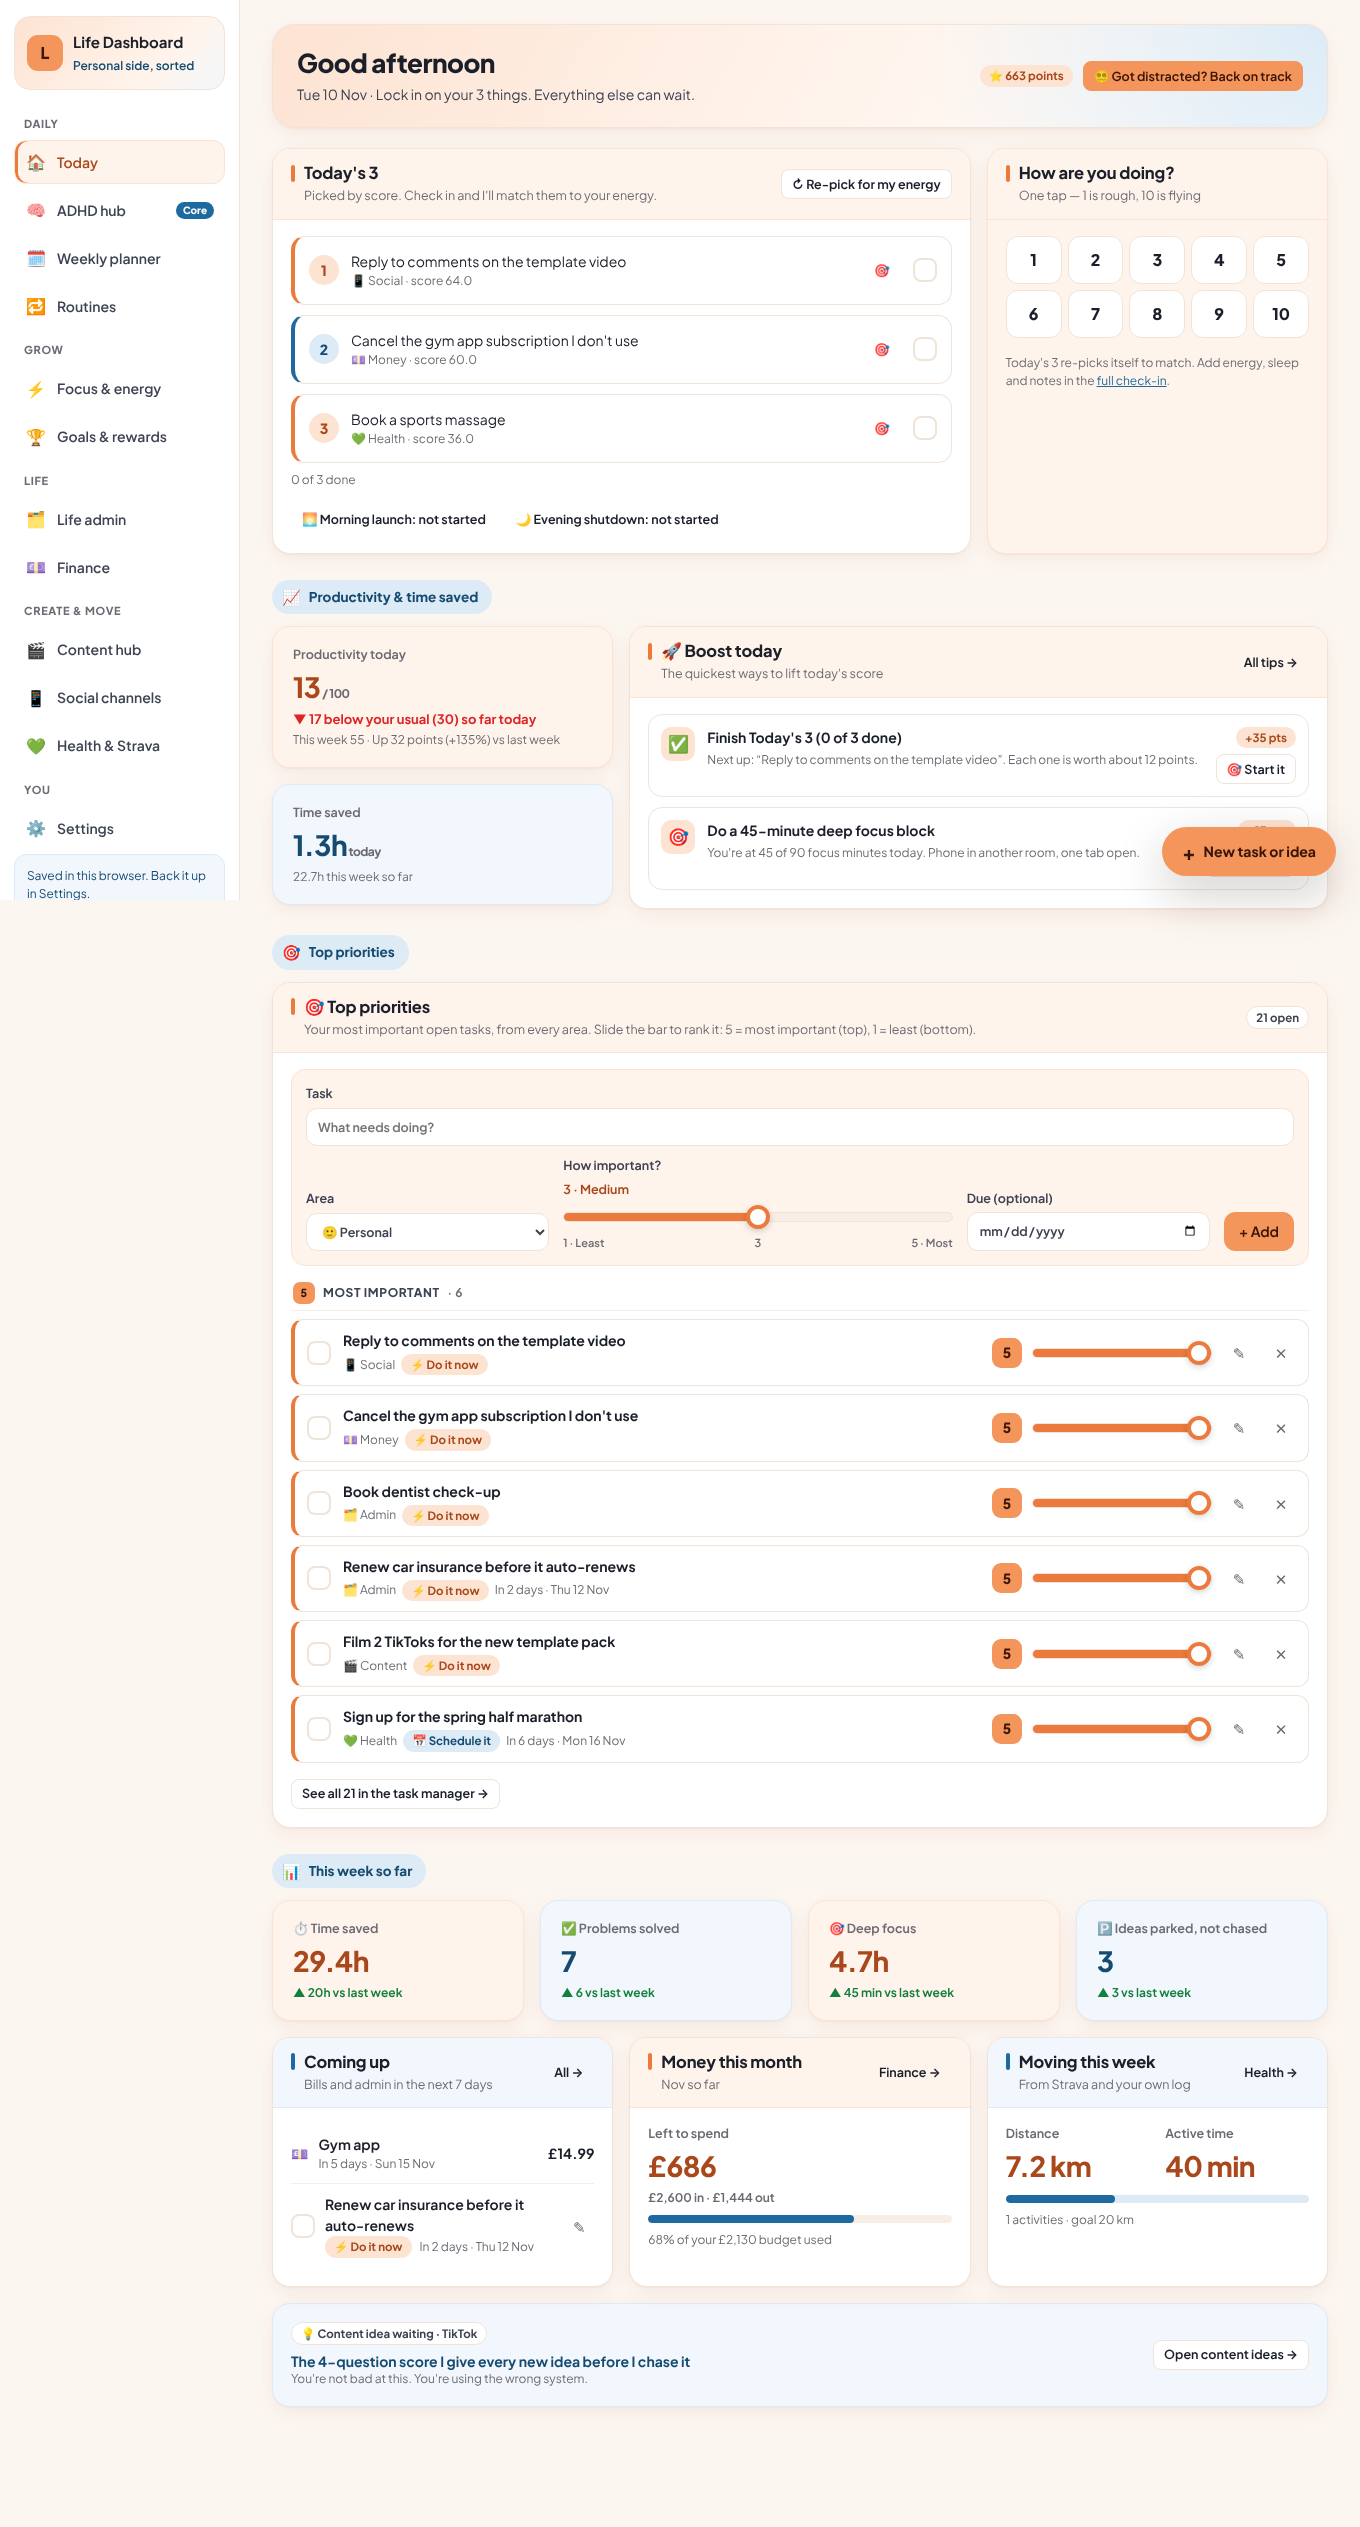
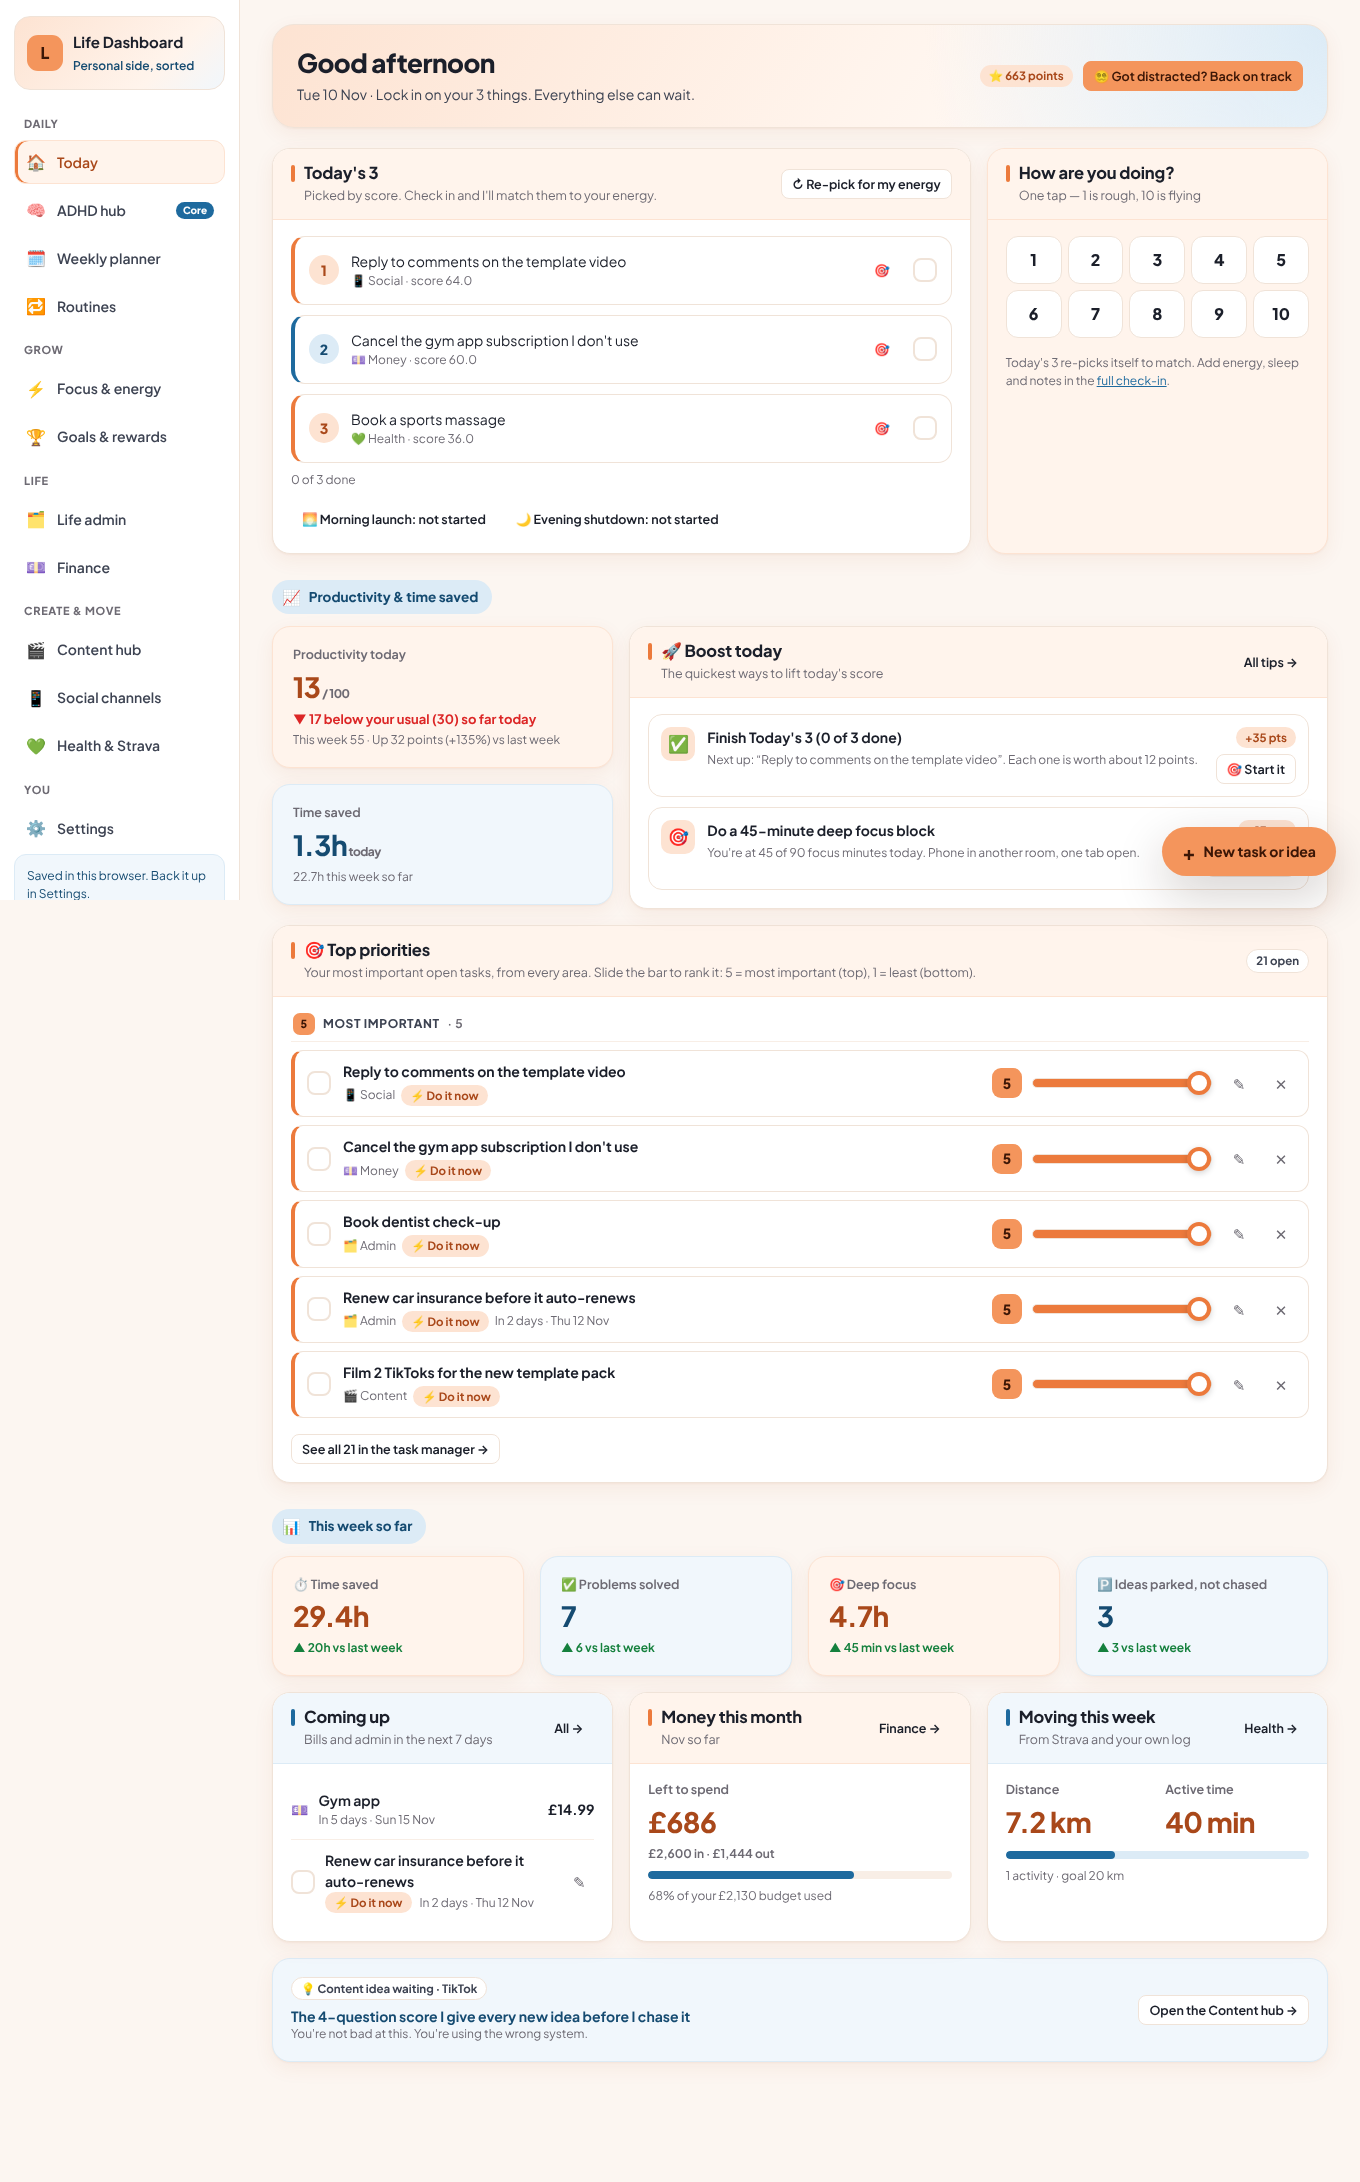
Design pass: phone tab bar, More sheet and a calmer Today page
- On phones, the sideways-scrolling strip of 12 sections is replaced
  by a bottom tab bar (Today, ADHD, Planner, Routines, More). More
  opens every section, grouped, plus the sync status.
- The new task button is a round + above the tab bar on phones, so it
  no longer covers tasks, and pages have room to scroll past the bar.
  Messages sit above the bar too.
- Today page: Top priorities no longer repeats its title and drops the
  add form (the + button does that), showing the top 5 only.
- On narrow screens, card header buttons move below the title instead
  of squeezing it.
- Wording fixes: "1 activity", "Open the Content hub".
- Docs and screenshots are refreshed.

Claude-Session: https://claude.ai/code/session_01Tm1LPD3ML44pVgCCgpXwdc

diff --git a/public/life/index.html b/public/life/index.html
@@ -537,6 +537,17 @@ input[type=range].prio:focus-visible { outline: 2px solid var(--sky); outline-of
 .ping-row { display: flex; align-items: center; gap: 12px; justify-content: space-between; max-width: 320px; }
 .btn[disabled] { opacity: .45; cursor: not-allowed; }
 
+/* ---------- phone tab bar & "More" sheet ---------- */
+.tabbar { display: none; }
+.fab b { font-weight: 750; }
+.sheet-overlay { align-items: end; padding: 0; }
+.sheet { width: 100%; max-height: 85vh; overflow-y: auto; background: var(--surface); border-radius: 22px 22px 0 0; padding: 10px 16px calc(18px + env(safe-area-inset-bottom)); box-shadow: var(--shadow-lg); }
+.sheet .grab { width: 44px; height: 5px; border-radius: 999px; background: var(--line); margin: 4px auto 12px; }
+.sheet-grid { display: grid; grid-template-columns: repeat(2, minmax(0, 1fr)); gap: 8px; }
+.sheet-grid button { display: flex; align-items: center; gap: 10px; padding: 12px; border-radius: 14px; border: 1px solid var(--line); background: var(--surface); font-weight: 650; cursor: pointer; text-align: left; }
+.sheet-grid button.on { background: var(--accent-wash); border-color: var(--accent); color: var(--accent-strong); }
+.sheet-label { font-size: 11px; font-weight: 750; letter-spacing: .06em; text-transform: uppercase; color: var(--muted); margin: 14px 2px 6px; }
+
 /* ---------- responsive ---------- */
 @media (max-width: 1080px) {
   .g4 { grid-template-columns: repeat(2, minmax(0, 1fr)); }
@@ -546,22 +557,29 @@ input[type=range].prio:focus-visible { outline: 2px solid var(--sky); outline-of
 }
 @media (max-width: 860px) {
   .app { grid-template-columns: 1fr; }
-  .nav {
-    position: sticky; top: 0; height: auto; z-index: 30; flex-direction: row; overflow-x: auto; padding: 8px 10px; gap: 4px;
-    border-right: 0; border-bottom: 1px solid var(--line); scrollbar-width: none;
+  .nav { display: none; }
+  .tabbar {
+    display: grid; grid-template-columns: repeat(5, minmax(0, 1fr)); position: fixed; left: 0; right: 0; bottom: 0; z-index: 45;
+    background: var(--surface); border-top: 1px solid var(--line); padding: 6px 4px calc(6px + env(safe-area-inset-bottom)); box-shadow: 0 -6px 20px rgba(40, 20, 10, .06);
   }
+  .tabbar button { border: 0; background: none; display: flex; flex-direction: column; align-items: center; gap: 2px; padding: 6px 2px; border-radius: 12px; font-size: 11px; font-weight: 650; color: var(--muted); cursor: pointer; }
+  .tabbar button .ti { font-size: 21px; line-height: 1; }
+  .tabbar button.on { color: var(--accent-strong); background: var(--accent-wash); }
+  .fab { bottom: calc(78px + env(safe-area-inset-bottom)); right: 16px; width: 56px; height: 56px; padding: 0; justify-content: center; border-radius: 50%; }
+  .fab .fab-label { display: none; }
+  .fab span { font-size: 28px; }
+  #toast { bottom: calc(150px + env(safe-area-inset-bottom)); }
   .nav::-webkit-scrollbar { display: none; }
   .brand, .nav-foot, .nav-label { display: none; }
   .nav button { width: auto; flex: 0 0 auto; padding: 8px 11px; font-size: 13px; }
   .nav button.on { box-shadow: inset 0 -3px 0 var(--accent); }
   .nav .tag { display: none; }
-  main { padding: 16px 16px 110px; }
+  main { padding: 16px 16px calc(160px + env(safe-area-inset-bottom)); }
   .page-head { padding: 18px; border-radius: 18px; }
   .g2, .g3, .scorer, .buckets { grid-template-columns: 1fr; }
   .span2 { grid-column: auto; }
   h1 { font-size: 22px; }
   .scale { grid-template-columns: repeat(5, minmax(0, 1fr)); }
-  .fab { right: 16px; bottom: 16px; }
   .tm-add, .tm-add.no-area { grid-template-columns: 1fr; }
   .tm-row { flex-wrap: wrap; }
   .tip { flex-wrap: wrap; }
@@ -586,6 +604,8 @@ input[type=range].prio:focus-visible { outline: 2px solid var(--sky); outline-of
   .hero-num { font-size: 44px; }
   .seg button { width: 34px; }
   .card { --pad: 15px; }
+  .card-head { flex-wrap: wrap; }
+  .card-head > .btn, .card-head > .row { margin-left: auto; }
 }
 </style>
 </head>
@@ -594,7 +614,8 @@ input[type=range].prio:focus-visible { outline: 2px solid var(--sky); outline-of
   <nav class="nav" id="nav" aria-label="Sections"></nav>
   <main id="main"></main>
 </div>
-<button class="fab" data-act="add-task" aria-label="Score a new task or idea"><span>+</span> New task or idea</button>
+<button class="fab" data-act="add-task" aria-label="Score a new task or idea"><span>+</span><b class="fab-label">New task or idea</b></button>
+<nav class="tabbar" id="tabbar" aria-label="Main sections"></nav>
 <div id="modal"></div>
 <div id="tip" role="status" aria-live="polite"></div>
 <div id="toast" role="status" aria-live="polite"></div>
@@ -1165,11 +1186,30 @@ function renderNav() {
     NAV.map(function (n) { return (n.group ? '<div class="nav-label">' + n.group + '</div>' : '') + '<button class="' + (route.page === n.id || (n.id === 'adhd' && route.page === 'mind') ? 'on' : '') + '" data-act="nav" data-id="' + n.id + '"><span class="ico">' + n.ico + '</span>' + n.name + (n.tag ? '<span class="tag">' + n.tag + '</span>' : '') + '</button>'; }).join('') +
     '<div class="nav-foot">' + esc(syncStatusText()) + '</div>';
 }
+var TABS = [['home', '🏠', 'Today'], ['adhd', '🧠', 'ADHD'], ['planner', '🗓', 'Planner'], ['routines', '🔁', 'Routines']];
+function renderTabbar() {
+  var tb = $('#tabbar'); tb.hidden = !S.started; if (!S.started) return;
+  var cur = route.page === 'mind' ? 'adhd' : route.page, inTabs = TABS.some(function (t) { return t[0] === cur; });
+  tb.innerHTML = TABS.map(function (t) { return '<button class="' + (cur === t[0] ? 'on' : '') + '" data-act="nav" data-id="' + t[0] + '"' + (cur === t[0] ? ' aria-current="page"' : '') + '><span class="ti">' + t[1] + '</span>' + t[2] + '</button>'; }).join('') +
+    '<button class="' + (inTabs ? '' : 'on') + '" data-act="more-open"><span class="ti">☰</span>More</button>';
+}
+function openMore() {
+  var cur = route.page === 'mind' ? 'adhd' : route.page, group = '';
+  var html = NAV.map(function (n) {
+    var head = n.group && n.group !== group ? '</div><div class="sheet-label">' + n.group + '</div><div class="sheet-grid">' : '';
+    if (n.group) group = n.group;
+    return head + '<button class="' + (cur === n.id ? 'on' : '') + '" data-act="nav" data-id="' + n.id + '"><span>' + n.ico + '</span>' + n.name + '</button>';
+  }).join('');
+  $('#modal').innerHTML = '<div class="overlay sheet-overlay" data-act="modal-bg"><div class="sheet" role="dialog" aria-modal="true" aria-label="All sections"><div class="grab"></div>' +
+    '<div class="row between"><b>' + esc(S.settings.name ? S.settings.name + '\'s life' : 'Life Dashboard') + '</b><button class="icon-btn" data-act="modal-close" aria-label="Close">✕</button></div>' +
+    '<div><div class="sheet-grid">' + html + '</div></div><p class="small muted mt">' + esc(syncStatusText()) + '</p></div></div>';
+}
 function render() {
   applyTheme();
   chartQueue = [];
   hideTip();
   renderNav();
+  renderTabbar();
   var html;
   if (!S.started) { html = viewWelcome(); $('.fab').hidden = true; }
   else {
@@ -1233,7 +1273,7 @@ function viewHome() {
       '</div>' +
     '</div>' +
     homeProductivity() +
-    '<div class="section-label"><span>🎯</span>Top priorities</div>' + taskManager('home', { areas: null, def: 'personal', title: '🎯 Top priorities', blurb: 'Your most important open tasks, from every area.', limit: 6 }) +
+    '<div class="mt"></div>' + taskManager('home', { areas: null, def: 'personal', title: '🎯 Top priorities', blurb: 'Your most important open tasks, from every area.', limit: 5, noAdd: true }) +
     '<div class="section-label"><span>📊</span>This week so far</div>' + weekTiles(ws) +
     '<div class="grid g3 mt">' +
       '<div class="card calm"><div class="card-head"><div><h2>Coming up</h2><p>Bills and admin in the next 7 days</p></div><button class="btn sm ghost" data-act="go" data-page="admin">All →</button></div>' +
@@ -1244,9 +1284,9 @@ function viewHome() {
         (month.budget ? '<div class="mt-s"><div class="meter ' + meterClass(month.out / month.budget) + '"><span style="width:' + clamp(month.out / month.budget * 100, 0, 100) + '%"></span></div><div class="small muted mt-s">' + Math.round(month.out / month.budget * 100) + '% of your ' + money(month.budget, 0) + ' budget used</div></div>' : '') + '</div>' +
       '<div class="card calm"><div class="card-head"><div><h2>Moving this week</h2><p>From Strava and your own log</p></div><button class="btn sm ghost" data-act="go" data-page="health">Health →</button></div>' +
         '<div class="grid g2"><div class="stat"><span class="label">Distance</span><span class="value">' + num(sum(acts, function (a) { return a.distance; }), 1) + ' km</span></div><div class="stat"><span class="label">Active time</span><span class="value">' + hrs(sum(acts, function (a) { return a.minutes; }) / 60) + '</span></div></div>' +
-        '<div class="mt-s"><div class="progress"><span style="width:' + clamp(sum(acts, function (a) { return a.distance; }) / (S.settings.distanceGoal || 1) * 100, 0, 100) + '%"></span></div><div class="small muted mt-s">' + acts.length + ' activities · goal ' + S.settings.distanceGoal + ' km</div></div></div>' +
+        '<div class="mt-s"><div class="progress"><span style="width:' + clamp(sum(acts, function (a) { return a.distance; }) / (S.settings.distanceGoal || 1) * 100, 0, 100) + '%"></span></div><div class="small muted mt-s">' + (acts.length === 1 ? '1 activity' : acts.length + ' activities') + ' · goal ' + S.settings.distanceGoal + ' km</div></div></div>' +
     '</div>' +
-    (idea ? '<div class="card mt tint"><div class="row between"><div><span class="pill plain">💡 Content idea waiting · ' + esc(idea.platform) + '</span><h3 class="mt-s">' + esc(idea.title) + '</h3><p class="small muted">' + esc(idea.hook || '') + '</p></div><button class="btn sm" data-act="go" data-page="content">Open content ideas →</button></div></div>' : '');
+    (idea ? '<div class="card mt tint"><div class="row between"><div><span class="pill plain">💡 Content idea waiting · ' + esc(idea.platform) + '</span><h3 class="mt-s">' + esc(idea.title) + '</h3><p class="small muted">' + esc(idea.hook || '') + '</p></div><button class="btn sm" data-act="go" data-page="content">Open the Content hub →</button></div></div>' : '');
 }
 function homeProductivity() {
   var t = dayStats(new Date()), tr = dayTrendText(t.score, usualScore()), tips = dailyTips().slice(0, 2);
@@ -2935,7 +2975,8 @@ function act(a, d, el) {
   d = d || {};
   var t;
   switch (a) {
-    case 'nav': go(d.id); break;
+    case 'nav': if ($('#modal').innerHTML) closeModal(); go(d.id); break;
+    case 'more-open': openMore(); break;
     case 'go': if (d.page === 'adhd' && d.tab === 'score') inlineDraft = null; go(d.page, d.tab); break;
     case 'start': S.started = true; save(); go('adhd', 'checkin'); break;
     case 'start-demo':

diff --git a/docs/LIFE-DASHBOARD.md b/docs/LIFE-DASHBOARD.md
@@ -64,6 +64,12 @@ Every section except Finance has its own ranked task manager:
 
 ## How it's laid out
 
+On a phone, a tab bar along the bottom holds **Today, ADHD, Planner, Routines** and **More**. More opens every section plus your sync status. The **+** button for a new task or idea sits just above the tab bar.
+
+| Phone: Today | Phone: More |
+|---|---|
+| ![Phone Today](screenshots/65-life-phone-today.png) | ![Phone More](screenshots/66-life-phone-more.png) |
+
 | Group | Sections |
 |---|---|
 | **Daily** | Today · 🧠 ADHD hub (with 🌿 Mind & reset inside it) · 🗓 Weekly planner · 🔁 Routines |
